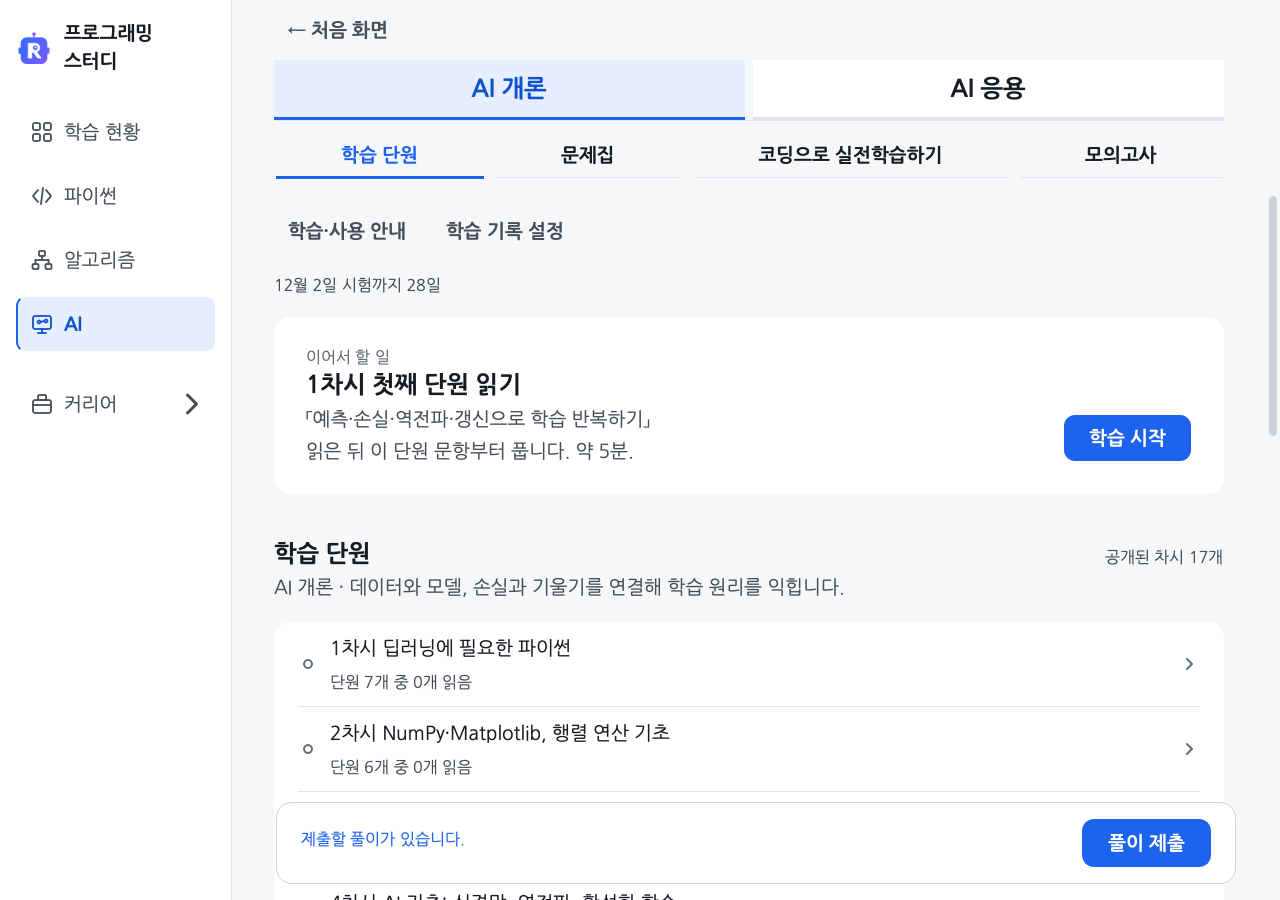
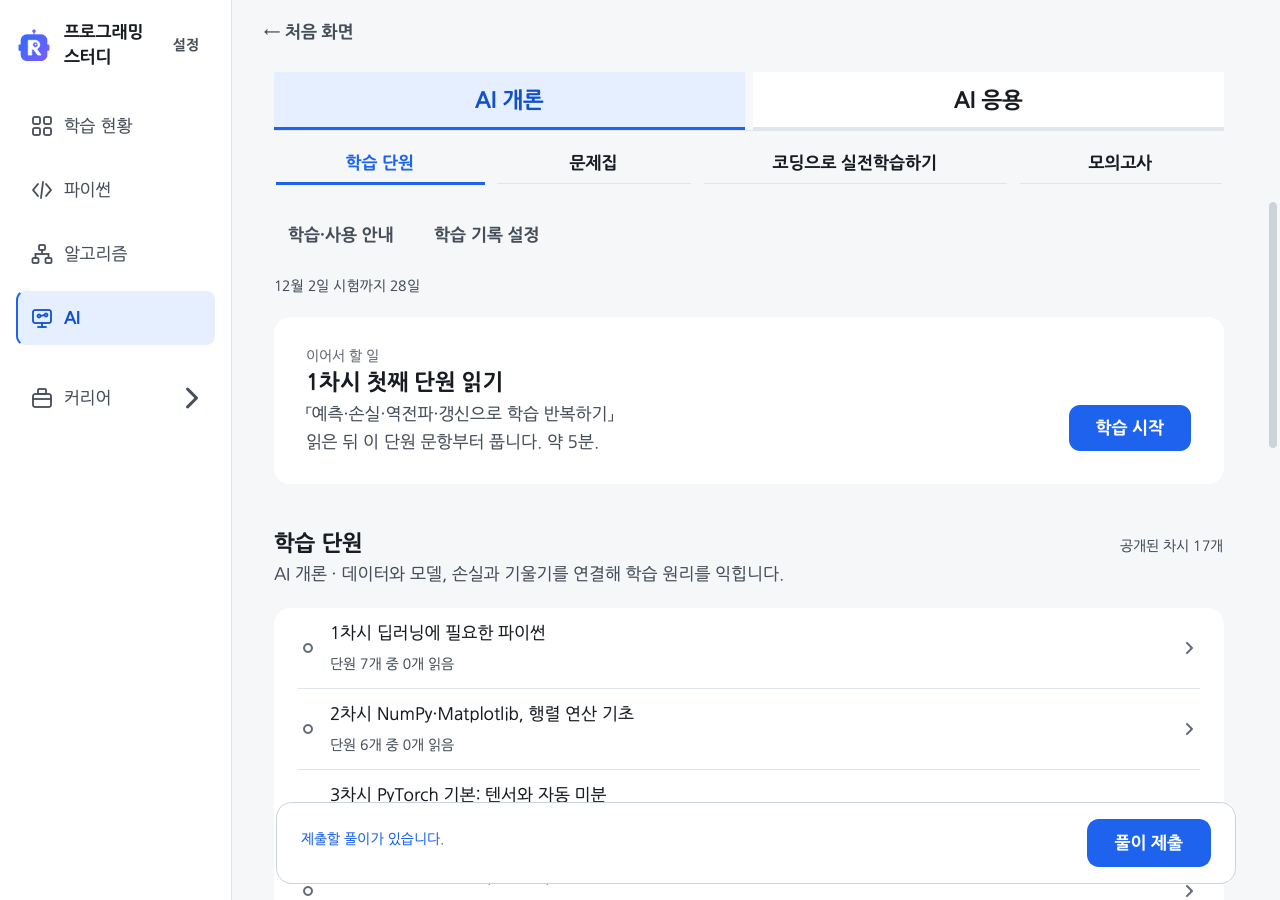
fix(ui): AI 처음 화면 버튼을 공통 상단에 배치 (#260)

diff --git a/tests/test_gui_section_browser.py b/tests/test_gui_section_browser.py
@@ -1,4 +1,7 @@
 """자료가 늘어나도 분류를 찾고 읽던 목록으로 돌아오는지 확인함."""
+import json
+import os
+from pathlib import Path
 from unittest import mock
 
 from tests import guikit
@@ -8,12 +11,131 @@ from PyQt6.QtGui import QFontMetricsF
 from PyQt6.QtTest import QTest
 from PyQt6.QtWidgets import QAbstractSlider
 
-from gui import theme
+from gui import kit, theme
+from gui.career_roadmap import ReadingPage
 from session import SessionError
 
 
 class AiSectionBrowserTest(AiTest):
     real_bank = True
+
+    def test_application_course_keeps_topbar_and_tab_reaches_selected_course(self):
+        win, home, browser = self.home()
+        self.capture_widget = win
+        win.set_theme("dark")
+        win.set_text("larger")
+        self.settle()
+        before = (home.top.geometry(), home.hub_btn.mapTo(win, QPoint()), home.hub_btn.size())
+        guikit.click(home.course_tabs.buttons[1])
+        self.settle()
+        self.assertEqual("app", win.ai.course)
+        self.assertEqual(before, (home.top.geometry(), home.hub_btn.mapTo(win, QPoint()), home.hub_btn.size()))
+        self.assertIs(home.hub_btn, home.top.back)
+        home.hub_btn.setFocus()
+        QTest.keyClick(home.hub_btn, Qt.Key.Key_Tab)
+        self.assertTrue(home.course_tabs.buttons[1].isChecked())
+        self.assertTrue(home.course_tabs.buttons[1].hasFocus())
+        QTest.keyClick(home.course_tabs.buttons[1], Qt.Key.Key_Tab, Qt.KeyboardModifier.ShiftModifier)
+        self.assertTrue(home.hub_btn.hasFocus())
+        QTest.keyClick(home.hub_btn, Qt.Key.Key_Tab)
+        self.assertTrue(home.course_tabs.buttons[1].hasFocus())
+        self.assertFalse(browser.isAncestorOf(home.hub_btn))
+        destination = os.environ.get("STUDY_UI_ARTIFACT_DIR")
+        if destination:
+            target = Path(destination)
+            target.mkdir(parents=True, exist_ok=True)
+            self.assertTrue(win.grab().save(str(target / "ai-home-header-app-dark-760-larger.png")))
+
+    def test_home_back_matches_shared_topbar_outside_content_column(self):
+        self.settings.setValue("onboarding/career/catalog/v1", True)
+        win, home, browser = self.home()
+        self.capture_widget = win
+        self.assertIsInstance(home.top, kit.TopBar)
+        self.assertIs(home.hub_btn, home.top.back)
+        self.assertIs(home.top.parentWidget(), home)
+        self.assertFalse(browser.isAncestorOf(home.hub_btn))
+        native = guikit.APP.platformName() != "offscreen"
+        room = win.screen().availableGeometry()
+        frame_width = win.frameGeometry().width() - win.width()
+        frame_height = win.frameGeometry().height() - win.height()
+        destination = os.environ.get("STUDY_UI_ARTIFACT_DIR")
+        measurements = []
+        for mode in ("light", "dark"):
+            win.set_theme(mode)
+            for requested in ((760, 480), (2048, 1000)):
+                width, height = requested
+                if native:
+                    width = min(width, room.width() - frame_width - 32)
+                    height = min(height, room.height() - frame_height - 32)
+                win.resize(width, height)
+                if native:
+                    win.move(room.topLeft() + QPoint(16, 16))
+                for step in ("normal", "larger"):
+                    win.set_text(step)
+                    self.settle()
+                    if native:
+                        self.assertTrue(room.contains(win.frameGeometry()))
+                    top, back = home.top, home.hub_btn
+                    self.assertEqual((0, 0, home.width(), theme.CONTROL["topbar"]), top.geometry().getRect())
+                    self.assertEqual(top.height(), browser.y())
+                    self.assertEqual(kit.MARGIN - kit.FLUSH, back.x())
+                    self.assertGreaterEqual(back.width(), back.sizeHint().width())
+                    self.assertGreaterEqual(back.height(), back.sizeHint().height())
+                    bounds = back.rect().translated(back.mapTo(win, QPoint()))
+                    self.assertTrue(win.rect().contains(bounds))
+                    global_back = back.mapToGlobal(QPoint())
+                    comparisons = []
+                    for move in (win.go_home, win.go_career):
+                        move()
+                        self.idle()
+                        page = win.pages.currentWidget()
+                        if move == win.go_home:
+                            self.assertIs(page, win.home)
+                            other = page.hub_btn
+                        else:
+                            self.assertIsInstance(page, ReadingPage)
+                            other = page.top.back
+                        other_top = other.parentWidget()
+                        self.assertEqual(global_back.x(), other.mapToGlobal(QPoint()).x())
+                        self.assertEqual(top.mapToGlobal(QPoint()), other_top.mapToGlobal(QPoint()))
+                        self.assertEqual(back.height(), other.height())
+                        self.assertEqual(top.height(), other_top.height())
+                        # 선이 있는 파이썬 막대는 안쪽 높이가 1px 작음. 각 막대의 실제 내용 칸에서 가운데를 확인함.
+                        self.assertEqual(other_top.contentsRect().y() + (other_top.contentsRect().height() - other.height()) // 2,
+                                         other.y())
+                        if isinstance(page, ReadingPage):
+                            self.assertEqual(global_back, other.mapToGlobal(QPoint()))
+                        comparisons.append(dict(page=type(page).__name__,
+                                                back_global=[other.mapToGlobal(QPoint()).x(), other.mapToGlobal(QPoint()).y()],
+                                                button_height=other.height(), top_height=other.parentWidget().height()))
+                    win.go_ai()
+                    self.settle()
+                    bar = home.scroll.verticalScrollBar()
+                    bar.setValue(bar.maximum())
+                    guikit.pump()
+                    self.assertEqual(bounds, back.rect().translated(back.mapTo(win, QPoint())))
+                    bar.setValue(0)
+                    self.settle()
+                    back.setFocus()
+                    QTest.keyClick(back, Qt.Key.Key_Tab)
+                    self.assertTrue(home.course_tabs.buttons[0].hasFocus())
+                    if destination:
+                        target = Path(destination)
+                        target.mkdir(parents=True, exist_ok=True)
+                        stem = "ai-home-header-%s-%d-%s" % (mode, requested[0], step)
+                        self.assertTrue(win.grab().save(str(target / (stem + ".png"))))
+                        measurements.append(dict(mode=mode, text=step, requested=requested,
+                                                 window=[win.width(), win.height()], back=bounds.getRect(),
+                                                 top=top.geometry().getRect(), viewport=home.scroll.viewport().height(),
+                                                 back_global=[global_back.x(), global_back.y()], comparisons=comparisons,
+                                                 head_sha=os.environ.get("STUDY_UI_HEAD_SHA", ""),
+                                                 platform=guikit.APP.platformName(), dpr=win.devicePixelRatioF()))
+                        (target / "ai-home-header.json").write_text(json.dumps(measurements, indent=2), encoding="utf-8")
+        guikit.click(home.hub_btn)
+        self.assertIs(win.pages.currentWidget(), win.hub)
+        win.go_ai()
+        win.resize(760, 480)
+        self.settle()
 
     def home(self, size=(760, 480)):
         win = self.boot(size)

diff --git a/gui/ai_home.py b/gui/ai_home.py
@@ -4,7 +4,6 @@
 읽던 단계, 단원 연습, 날짜를 띄운 복습 기록을 구분해 표시함.
 분류 선택을 고정하고 현재 과정의 목록과 공개 준비 상태를 표시함.
 혼합 모의고사는 두 탭에서 같은 응시 기록을 사용함."""
-from PyQt6.QtCore import Qt
 from PyQt6.QtWidgets import QWidget
 
 from aiprep import bank, mixed_mock
@@ -23,11 +22,13 @@ class AiHomePage(QWidget):
         self.overview, self.target, self.busy, self.mixed_ready = None, None, False, False
         self.mixed_row, self.notes_row = None, None
         outer = kit.box(self)
+        self.top = kit.TopBar("← 처음 화면", plain=True)
+        self.hub_btn = self.top.back
+        self.top.row.addStretch(1)
+        outer.addWidget(self.top)
         header = QWidget()
         row = kit.box(header, (0, theme.GAP["detail"], 0, 0),
                       spacing=theme.GAP["detail"])
-        self.hub_btn = kit.button("← 처음 화면", "text", "m", onbg=True)
-        row.addWidget(self.hub_btn, 0, Qt.AlignmentFlag.AlignLeft)
         self.course_tabs = kit.NavigationTabs(["AI 개론", "AI 응용"], deferred=True)
         self.course_tabs.setAccessibleName("AI 학습 과정")
         for tab, description in zip(self.course_tabs.buttons, (
@@ -111,7 +112,7 @@ class AiHomePage(QWidget):
         root.addWidget(self.mock_empty)
         self.browser.add_section("mocks", "모의고사", "회차를 골라 제한 시간 안에 풉니다.", mocks)
         self.browser.body.addStretch(1)
-        focus_order = [*self.course_tabs.buttons, *self.browser.buttons.values(), self.guide_btn, self.data_btn, self.next_btn]
+        focus_order = [self.hub_btn, *self.course_tabs.buttons, *self.browser.buttons.values(), self.guide_btn, self.data_btn, self.next_btn]
         for first, second in zip(focus_order, focus_order[1:]):
             QWidget.setTabOrder(first, second)
 
@@ -122,7 +123,9 @@ class AiHomePage(QWidget):
         """서비스에서 현황을 다시 읽어 칸을 채움. 기록을 읽지 못하면 띠에 이유를 보이고 수치 줄과 목록을 비움."""
         course = getattr(self.win.ai, "course", "intro")
         self.browser.begin_refresh((self.win.user, course))
-        self.course_tabs.set_current(1 if course == "app" else 0)
+        course_index = 1 if course == "app" else 0
+        self.course_tabs.set_current(course_index)
+        QWidget.setTabOrder(self.hub_btn, self.course_tabs.buttons[course_index])
         self.course_intro.setText("AI 응용 · 이미지를 준비하고 분류·검출에 연결합니다. 자료는 확인을 마친 단원부터 공개합니다." if course == "app" else
                                   "AI 개론 · 데이터와 모델, 손실과 기울기를 연결해 학습 원리를 익힙니다.")
         try:

diff --git a/tools/check_release.py b/tools/check_release.py
@@ -13,6 +13,8 @@ ROOT = Path(__file__).resolve().parents[1]
 sys.path.insert(0, str(ROOT))
 
 CASES = (
+    "tests.test_gui_section_browser.AiSectionBrowserTest.test_home_back_matches_shared_topbar_outside_content_column",
+    "tests.test_gui_section_browser.AiSectionBrowserTest.test_application_course_keeps_topbar_and_tab_reaches_selected_course",
     "tests.test_gui_design_system.DesignSystemTest.test_course_badge_matches_title_text_pixels_in_both_themes",
     "tests.test_gui_design_system.DesignSystemTest.test_settings_reuse_actions_across_subject_and_career_overviews",
     "tests.test_gui_design_system.DesignSystemTest.test_submission_actions_fit_without_losing_callbacks_or_visibility",

diff --git a/docs/UI_DESIGN.md b/docs/UI_DESIGN.md
@@ -26,6 +26,8 @@
 | 대화상자 | `DialogLayout`과 `ActionLayout` | 제목·스크롤 본문·고정 행동을 유지합니다. 확인·취소·삭제의 기능은 호출부에 둡니다. |
 | 동등한 콘텐츠 탐색 | `NavigationTabs`, `SectionBrowser` | 과정·분류·매거진 탭의 위계를 유지하고 선택과 키보드 초점을 구분합니다. |
 
+돌아가기 버튼을 담는 `TopBar`는 페이지 루트에서 본문 스크롤 밖에 두고 페이지 전체 폭을 사용합니다. 콘텐츠 열의 최대 폭 안에 넣지 않으며 공통 높이와 가장자리 여백을 따릅니다. 과정·분류 선택은 그 아래 콘텐츠 열에 두고 목록을 내려도 선택 위치를 유지합니다.
+
 공통 설정은 `Workspace.overview_pages`의 홈·과목 홈·차시 목록·커리어 동적 페이지에서 엽니다. 넓은 창은 왼쪽 메뉴의 프로그램 이름 옆, 좁은 창은 메뉴 선택란 오른쪽에 둡니다. Hub는 기존 설정 위치만 사용하고 공통 버튼은 숨깁니다. 같은 `SettingsMenu` 클래스를 사용하며 학습 본문·시험·코딩 작업 화면에는 새 진입을 추가하지 않습니다.
 
 설정의 표시 위치와 기능 허용 조건은 함께 적용합니다. 공통 메뉴가 생겨도 본인 확인·동의·제출·업데이트의 기존 정책을 넓히지 않습니다.
